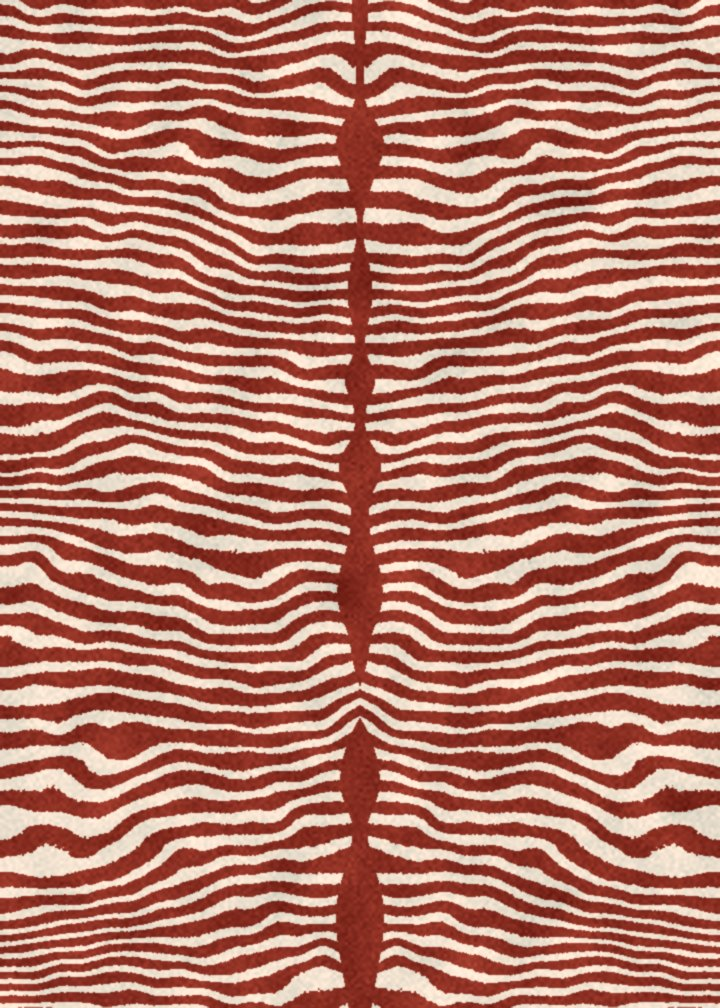
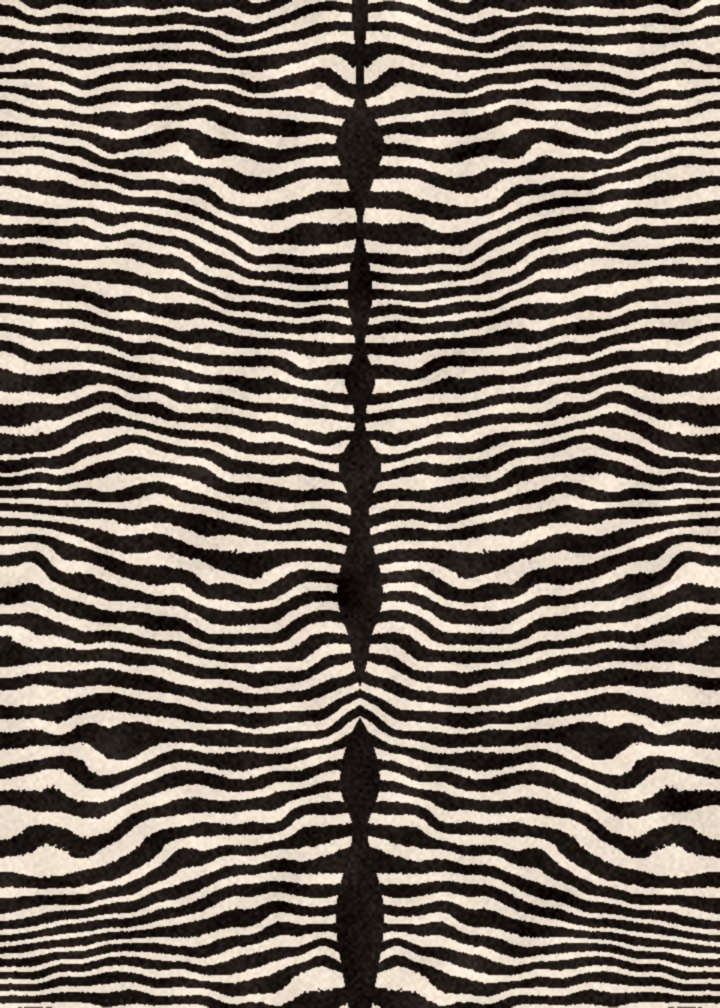
Zwart-witte zebra, handgeschreven accenten, crème op donker, secties zonder nummers
Claude-Session: https://claude.ai/code/session_01HbqZkWanUTc6GBkpYJkqQ6

diff --git a/index.html b/index.html
@@ -8,7 +8,7 @@
 <meta name="description" content="TROUF. Talent management, influencer marketing, brand partnerships, creatieve concepten en events.">
 <link rel="preconnect" href="https://fonts.googleapis.com">
 <link rel="preconnect" href="https://fonts.gstatic.com" crossorigin>
-<link rel="stylesheet" href="https://fonts.googleapis.com/css2?family=Gloock&family=Instrument+Serif:ital@0;1&family=Manrope:wght@400;500;700&display=swap">
+<link rel="stylesheet" href="https://fonts.googleapis.com/css2?family=Gloock&family=Mrs+Saint+Delafield&family=Instrument+Serif:ital@0;1&family=Manrope:wght@400;500;700&display=swap">
 <style>
 /* Layout: licht redactioneel magazine op warm beige. Genummerde secties, cursieve accenten, één doorlopende band,
    rood alleen als accent. Zebra alleen op de kaartrug en bij contact. */
@@ -61,7 +61,7 @@ nav a{text-decoration:none;color:var(--muted)} nav a:hover{color:var(--ink)}
 .cback,.cface{position:absolute;width:min(64%,380px);aspect-ratio:5/7;border-radius:16px;transition:transform .7s cubic-bezier(.2,.7,.2,1)}
 .cback{right:2%;top:10px;transform:rotate(8deg);background:var(--night);box-shadow:0 40px 70px -40px rgba(42,21,17,.6)}
 .cback-in{position:absolute;inset:12px;border-radius:9px;overflow:hidden;background:url(img/zebra-kaart.jpg) center/cover;border:1px solid rgba(246,236,226,.5)}
-.mono{position:absolute;right:20px;top:50%;transform:translateY(-50%);writing-mode:vertical-rl;font:400 19px/1 var(--display);letter-spacing:.42em;padding:18px 10px 12px;color:var(--cream);background:var(--night);border:1px solid rgba(240,201,166,.5)}
+.mono{position:absolute;right:20px;top:50%;transform:translateY(-50%);writing-mode:vertical-rl;font:400 19px/1 var(--display);letter-spacing:.42em;padding:18px 10px 12px;color:var(--cream);background:var(--night);border:1px solid rgba(246,236,226,.5)}
 .cface{left:3%;top:60px;margin:0;transform:rotate(-3deg);overflow:hidden;box-shadow:0 50px 80px -40px rgba(42,21,17,.75)}
 .cface img{width:100%;height:100%;object-fit:cover;object-position:47% 30%}
 .cface::after{content:"";position:absolute;inset:10px;border:1px solid rgba(246,236,226,.6);border-radius:10px}
@@ -71,7 +71,7 @@ nav a{text-decoration:none;color:var(--muted)} nav a:hover{color:var(--ink)}
 /* doorlopende band */
 .ticker{background:var(--cherry);color:var(--cream);overflow:hidden;padding-block:20px;border-block:1px solid var(--night)}
 .ticker-track{display:flex;gap:34px;width:max-content;animation:tick 48s linear infinite;font:400 clamp(22px,2.4vw,32px)/1 var(--italic);font-style:italic}
-.ticker-track i{font-style:normal;font-size:.55em;color:#f0c9a6;align-self:center}
+.ticker-track i{font-style:normal;font-size:.55em;color:#f6ece2;align-self:center}
 @keyframes tick{to{transform:translateX(-50%)}}
 
 /* over */
@@ -92,7 +92,7 @@ nav a{text-decoration:none;color:var(--muted)} nav a:hover{color:var(--ink)}
 .tile > *{position:relative;z-index:1}
 .tile .kicker{color:rgba(246,236,226,.8)}
 .tile h3{font:400 32px/1.05 var(--display);margin:8px 0 0}
-.tile h3 em{color:#f0c9a6}
+.tile h3 em{color:#f6ece2}
 
 /* expertise */
 .xgrid{display:grid;grid-template-columns:repeat(3,1fr);border-top:1px solid var(--line);border-left:1px solid var(--line)}
@@ -175,7 +175,7 @@ footer{background:var(--night);color:#dcc0b2;padding-block:64px 30px;font-size:1
 .fgrid{display:grid;grid-template-columns:1.4fr 1fr 1fr;gap:40px;padding-bottom:40px;border-bottom:1px solid rgba(246,236,226,.15)}
 footer .logo{color:var(--cream);border-color:var(--cream)}
 footer .tagline{font:400 italic 20px/1.4 var(--italic);color:var(--cream);margin:22px 0 0;max-width:22em}
-footer h4{font-size:10.5px;letter-spacing:.24em;text-transform:uppercase;font-weight:700;margin:0 0 14px;color:#f0c9a6}
+footer h4{font-size:10.5px;letter-spacing:.24em;text-transform:uppercase;font-weight:700;margin:0 0 14px;color:#f6ece2}
 footer ul{list-style:none;margin:0;padding:0;display:flex;flex-direction:column;gap:8px}
 footer a{text-decoration:none} footer a:hover{color:var(--cream)}
 .legal{display:flex;justify-content:space-between;gap:16px;flex-wrap:wrap;padding-top:24px;font-size:12px;letter-spacing:.04em}
@@ -225,7 +225,7 @@ summary{color:var(--umber);border-bottom-color:var(--umber)}
 .plate{box-shadow:0 40px 80px -40px rgba(30,6,4,.8), inset 0 0 0 10px var(--paper), inset 0 0 0 11px var(--umber)}
 .plate .kicker{color:var(--umber)}
 footer{border-top:4px solid var(--umber)}
-footer h4{color:#e9a27f}
+footer h4{color:#f6ece2}
 ::selection{background:var(--umber);color:var(--cream)}
 
 /* officieel logo */
@@ -299,32 +299,43 @@ details > *:not(summary){animation:fade .35s ease}
 /* afwisselende banden in de amber/roodtinten */
 .paper{background:#6d2114!important;color:#f6ece2}
 .paper.alt{background:#6e2116!important}
-.paper .secnum{color:#f0c9a6;border-bottom-color:rgba(246,236,226,.35)}
-.paper .secnum b{color:#f0c9a6}
+.paper .secnum{color:#f6ece2;border-bottom-color:rgba(246,236,226,.35)}
+.paper .secnum b{color:#f6ece2}
 .paper h2{color:#f6ece2}
-.paper h2 em{color:#f0c9a6}
+.paper h2 em{color:#f6ece2}
 .paper .xp,.paper .rc{background:#f6f1e8!important;border-color:transparent!important;box-shadow:0 30px 50px -34px rgba(30,6,4,.7)!important}
-.paper .xp:hover{background:#fbf8f2!important;border-color:#f0c9a6!important}
+.paper .xp:hover{background:#fbf8f2!important;border-color:#f6ece2!important}
 .paper .xgrid{border-top:0!important}
 .paper .xp,.paper .rc{color:var(--ink)}
 
 /* expertise: hele vlak in Hematite, ook achter de kaarten */
-#expertise .xp{background:transparent!important;color:#f6ece2;border:1px solid rgba(240,201,166,.35)!important;box-shadow:none!important}
-#expertise .xp:hover{background:rgba(246,236,226,.05)!important;border-color:#f0c9a6!important}
-#expertise .xp::after{border-color:rgba(240,201,166,.18)}
-#expertise .xp-n,#expertise .xp h3 em,#expertise .focus span{color:#f0c9a6}
+#expertise .xp{background:transparent!important;color:#f6ece2;border:1px solid rgba(246,236,226,.35)!important;box-shadow:none!important}
+#expertise .xp:hover{background:rgba(246,236,226,.05)!important;border-color:#f6ece2!important}
+#expertise .xp::after{border-color:rgba(246,236,226,.18)}
+#expertise .xp-n,#expertise .xp h3 em,#expertise .focus span{color:#f6ece2}
 #expertise .xp h3{color:#f6ece2}
 #expertise .xp-tag,#expertise .projects span:not(.src),#expertise .focus{color:#dcc0b2}
 #expertise .xp-copy,#expertise .does,#expertise .projects b{color:#f6ece2}
-#expertise details{border-top-color:rgba(240,201,166,.25)}
-#expertise summary{color:#f0c9a6;border-bottom-color:#f0c9a6}
-#expertise .sub{color:#f0c9a6}
-#expertise .does li::before{background:#f0c9a6}
-#expertise .projects li{border-top-color:rgba(240,201,166,.2)}
-#expertise .src.t{background:#f0c9a6;color:#3d0f0b}
+#expertise details{border-top-color:rgba(246,236,226,.25)}
+#expertise summary{color:#f6ece2;border-bottom-color:#f6ece2}
+#expertise .sub{color:#f6ece2}
+#expertise .does li::before{background:#f6ece2}
+#expertise .projects li{border-top-color:rgba(246,236,226,.2)}
+#expertise .src.t{background:#f6ece2;color:#3d0f0b}
 #expertise .src.b{border-color:#dcc0b2;color:#dcc0b2}
 #expertise .xgrid{align-items:start}
 .paper,.paper.alt{background:var(--night)!important}
+
+/* handgeschreven accenten */
+#over .wrap,#expertise .wrap,#events .wrap,#talent .wrap,.plate{position:relative}
+.script{position:absolute;z-index:2;pointer-events:none;font:400 clamp(64px,9vw,150px)/1 "Mrs Saint Delafield","Snell Roundhand",cursive;color:#0d0807;white-space:nowrap;letter-spacing:0;opacity:.92;user-select:none}
+.s-over{right:2%;top:290px;transform:rotate(-8deg)}
+.s-exp{right:3%;top:40px;transform:rotate(-6deg);color:#0d0807}
+.s-ev{right:6%;top:30px;transform:rotate(-7deg)}
+.s-tal{right:4%;top:40px;transform:rotate(-6deg)}
+.s-sign{position:relative;display:block;font-size:clamp(56px,6vw,90px);margin:-10px 0 -6px;transform:rotate(-4deg);color:#0d0807}
+@media (max-width:980px){.s-over{top:auto;bottom:-30px;right:4%}}
+@media (max-width:620px){.script{font-size:64px}.s-exp,.s-ev,.s-tal{top:8px;right:2%}.s-over{bottom:-46px}}
 </style>
 <link rel="icon" href="img/trouf-logo.svg" type="image/svg+xml">
 <meta property="og:title" content="TROUF">
@@ -355,8 +366,8 @@ details > *:not(summary){animation:fade .35s ease}
 
 <div class="ticker" aria-hidden="true"><div class="ticker-track"><span>Talent Management</span><i>✦</i><span>Influencer Marketing</span><i>✦</i><span>Brand Partnerships</span><i>✦</i><span>Creative Concepts</span><i>✦</i><span>Events &amp; Experiences</span><i>✦</i><span>Business Development</span><i>✦</i><span>Strategic Partnerships</span><i>✦</i><span>Talent Management</span><i>✦</i><span>Influencer Marketing</span><i>✦</i><span>Brand Partnerships</span><i>✦</i><span>Creative Concepts</span><i>✦</i><span>Events &amp; Experiences</span><i>✦</i><span>Business Development</span><i>✦</i><span>Strategic Partnerships</span><i>✦</i></div></div>
 
-<section id="over"><div class="wrap">
-  <div class="secnum"><b>1</b>Over mij</div>
+<section id="over"><div class="wrap"><span class="script s-over" aria-hidden="true">the art of the deal</span>
+  <div class="secnum">Over mij</div>
   <div class="about">
     <div><div class="ph-img"><img src="img/portret-2-zw-crop.jpg" alt="Nouhaila Matrouf op een event, zwart-wit"></div><div class="cap">Nouhaila Matrouf, oprichter van TROUF</div></div>
     <div>
@@ -370,8 +381,8 @@ details > *:not(summary){animation:fade .35s ease}
 
 
 
-<section id="expertise" class="paper"><div class="wrap">
-  <div class="secnum"><b>2</b>Expertise</div>
+<section id="expertise" class="paper"><div class="wrap"><span class="script s-exp" aria-hidden="true">strategy &amp; soul</span>
+  <div class="secnum">Expertise</div>
   <h2>Wat ik <em>doe</em></h2>
   <div class="xgrid"><article class="xp" id="x1">
   <div class="xp-n">1</div>
@@ -436,8 +447,8 @@ details > *:not(summary){animation:fade .35s ease}
 </article></div>
 </div></section>
 
-<section id="events"><div class="wrap">
-  <div class="secnum"><b>3</b>Events</div>
+<section id="events"><div class="wrap"><span class="script s-ev" aria-hidden="true">moments</span>
+  <div class="secnum">Events</div>
   <h2>Openingen &amp; <em>lanceringen</em></h2>
   <div class="events">
     <div class="event"><div class="ev-img slides" id="vier-slides" aria-roledescription="slideshow" aria-label="Foto's van de opening van Vier Antwerp"><img src="img/vier/vier-7.jpg" alt="Het VIER-uithangbord in de winkel" class="on"><img src="img/vier/vier-1.jpg" alt="Bezoekers voor de winkel van Vier Antwerp" loading="lazy"><img src="img/vier/vier-2.jpg" alt="Volle winkel tijdens de opening" loading="lazy"><img src="img/vier/vier-8.jpg" alt="Nouhaila vult de goodiebags" loading="lazy"><img src="img/vier/vier-4.jpg" alt="Gast met Caudalie-tassen" loading="lazy"><img src="img/vier/vier-5.jpg" alt="Nouhaila in de winkel" loading="lazy"><img src="img/vier/vier-6.jpg" alt="Gast onder de Antwerp-neon" loading="lazy">
@@ -453,13 +464,13 @@ details > *:not(summary){animation:fade .35s ease}
 </div></section>
 
 <section id="realisaties" class="paper alt"><div class="wrap">
-  <div class="secnum"><b>4</b>Realisaties</div>
+  <div class="secnum">Realisaties</div>
   <h2>Wat ik concreet heb <em>gerealiseerd</em></h2>
   <div class="rgrid"><article class="rc"><div class="rc-label">Business</div><h3>Business &amp; Growth</h3><p class="rc-sub">Verantwoordelijkheid opnemen en ondernemingen laten groeien.</p><ul><li>Meegebouwd aan de groei van een influencermarketingagency</li><li>Bijgedragen aan business development en omzetgroei</li><li>Nieuwe klanten en talenten aangetrokken</li><li>Commerciële voorstellen en pitches ontwikkeld</li><li>Medewerkers begeleid en de interne werking ondersteund</li></ul></article><article class="rc"><div class="rc-label">Netwerk</div><h3>Talent, Brands &amp; Partnerships</h3><p class="rc-sub">Een sterk netwerk en duurzame samenwerkingen.</p><ul><li>Strategische begeleiding van talenten</li><li>Influencermarketingstrategieën voor Takeaway en Aline</li><li>Partnerships voor Voodoo Village</li><li>Socialmediastrategie voor Yoroi</li><li>Klanten- en talentenrelaties opgebouwd en onderhouden</li><li>Commerciële opportuniteiten tussen merken en talenten ontwikkeld</li></ul></article><article class="rc"><div class="rc-label">Creatief</div><h3>Creative Projects &amp; Experiences</h3><p class="rc-sub">De creatieve en uitvoerende kant.</p><ul><li>Creatieve videocontent met Vincent Banić, onder meer voor Samsung</li><li>Conceptontwikkeling voor Club Tuesday</li><li>Events en activaties met talenten</li><li>Creatieve producties begeleid, samen met videografen</li><li>Ondersteuning bij evenementen en retailopeningen</li></ul></article></div>
 </div></section>
 
-<section id="talent"><div class="wrap">
-  <div class="secnum"><b>5</b>Talent</div>
+<section id="talent"><div class="wrap"><span class="script s-tal" aria-hidden="true">people first</span>
+  <div class="secnum">Talent</div>
   <h2>Talent dat ik <em>begeleid</em></h2>
   <p class="intro-text">Vanaf 2027 manage ik een kleine, bewust gekozen groep creators. Zo heeft elk talent een aanspreekpunt dat tijd maakt voor strategie, deals en groei.</p>
   <div class="roster">
@@ -470,8 +481,9 @@ details > *:not(summary){animation:fade .35s ease}
 </div></section>
 
 <section class="contact" id="contact"><div class="wrap"><div class="plate">
-  <div class="kicker">6 · Contact</div>
+  <div class="kicker">Contact</div>
   <h2 style="margin-top:14px">Laten we <em>praten.</em></h2>
+  <span class="script s-sign" aria-hidden="true">Nouhaila</span>
   <a class="mail" href="mailto:Nouhaila@troufagency.com">Nouhaila@troufagency.com</a>
 </div></div></section>
 
